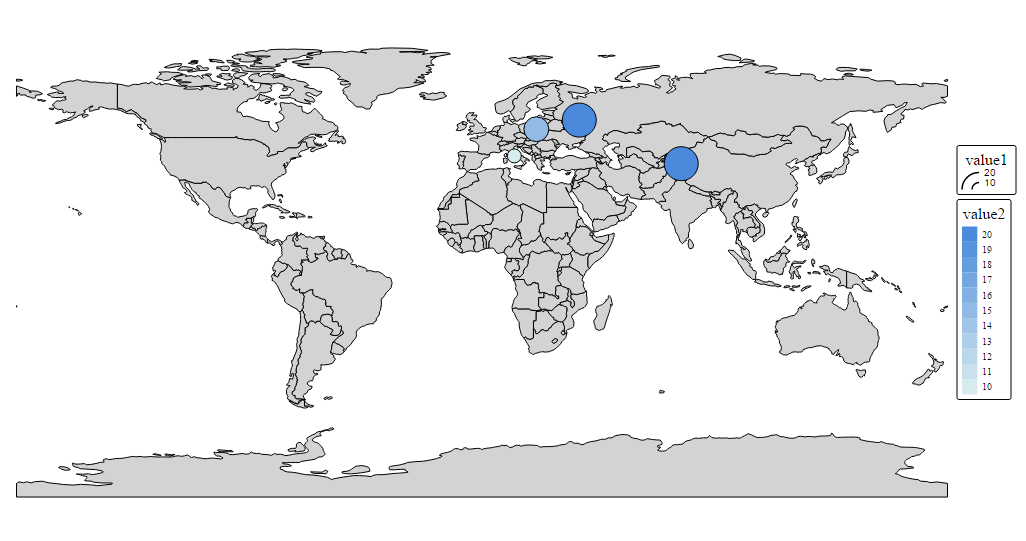
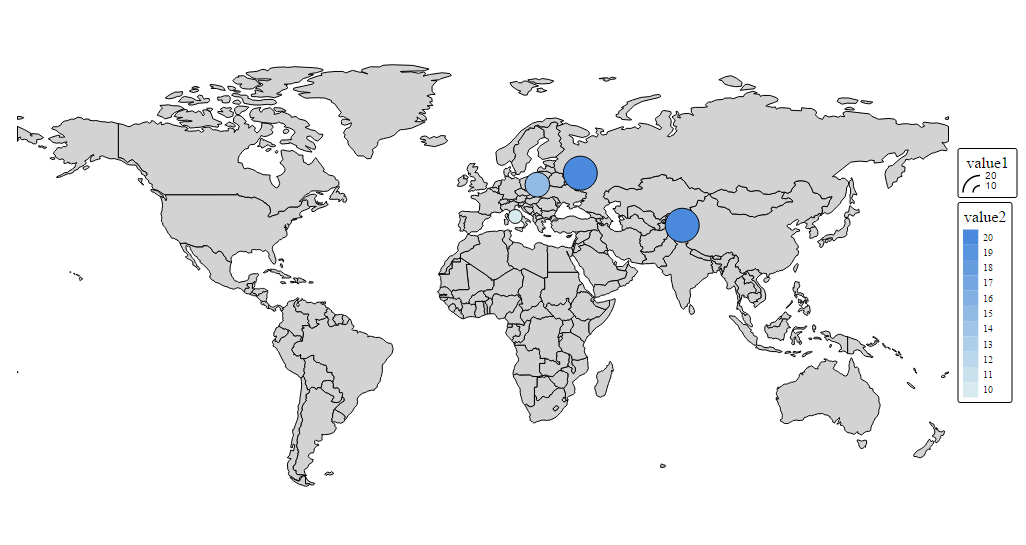
[com.ibi.world.map] update properties.json, screenshots and README.md

diff --git a/com.ibi.map.world/README.md b/com.ibi.map.world/README.md
@@ -24,7 +24,7 @@ To configure or customize your extension edit "properties" object in properties.
 	
 	"properties": {
           "countries": {
-            "exclude": [],
+            "exclude": ["Antarctica"],
             "defaultColor": "lightgrey",
             "borders": {
               "color": "black",
@@ -49,6 +49,29 @@ To configure or customize your extension edit "properties" object in properties.
             "bubbleSizeRange": [7, 17]
           },
           "colorLegend": {
+            "enabled": true,
+            "background": {
+              "color": 'none'
+            },
+            "border": {
+              "color": 'black',
+              "width": 1,
+              "round": 2
+            },
+            "title": {
+              "font": '16px serif',
+              "color": 'black'
+            },
+            "rows": {
+              "count": 'auto',
+              "labels": {
+                "font": '10px serif',
+                "color": 'black',
+                "format": 'auto'
+              }
+            }
+          },
+          "sizeLegend": {
             "enabled": true,
             "background": {
               "color": 'none'
